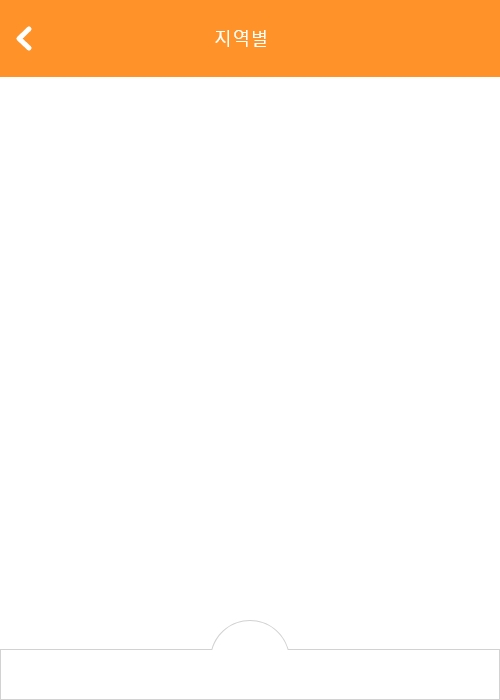
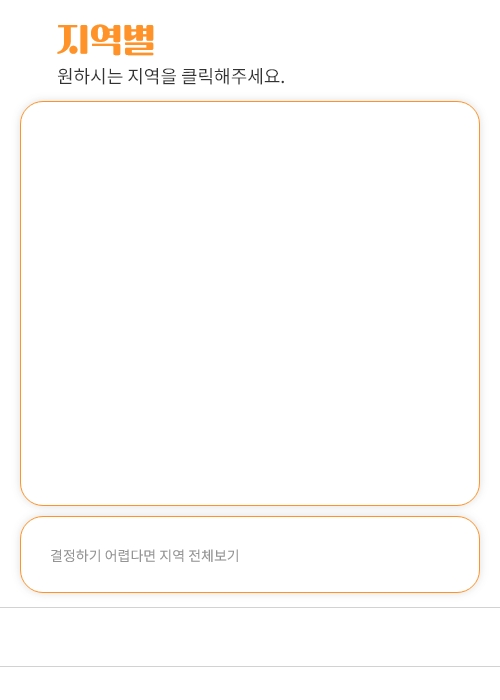
지역배경이미지 수정중

diff --git a/src/tabling/frame/LocationFrame.java b/src/tabling/frame/LocationFrame.java
@@ -1,5 +1,7 @@
 package tabling.frame;
 
+import java.awt.Graphics;
+import java.awt.Image;
 import java.awt.event.ActionEvent;
 import java.awt.event.ActionListener;
 import java.awt.event.MouseAdapter;
@@ -12,6 +14,7 @@ import javax.swing.ImageIcon;
 import javax.swing.JButton;
 import javax.swing.JFrame;
 import javax.swing.JLabel;
+import javax.swing.JPanel;
 
 import tabling.dao.RestaurantDAO;
 import tabling.dto.CustomerDTO;
@@ -20,13 +23,15 @@ import tabling.util.Define;
 
 public class LocationFrame extends JFrame implements ActionListener {
 
+	
+	private BackgroundPanel frame;
 	private JLabel background;
 
 	private JButton[] locationbutton;
 	private CustomerDTO customerDTO;
 	private RestaurantDAO dao;
 
-	private JLabel backBtn;
+//	private JLabel backBtn;
 
 	public LocationFrame(CustomerDTO customerDTO) {
 		this.customerDTO = customerDTO;
@@ -37,6 +42,8 @@ public class LocationFrame extends JFrame implements ActionListener {
 	}
 
 	private void initData() {
+		frame = new BackgroundPanel();
+		
 		dao = new RestaurantDAO();
 		locationbutton = new JButton[17]; // 0 ~ 17 배열
 		setTitle("지역 찾기");
@@ -50,11 +57,11 @@ public class LocationFrame extends JFrame implements ActionListener {
 		background.setSize(413, 355);
 		background.setLocation(35, 50);
 
-		Icon icon2 = new ImageIcon("img/quitBtn2.png");
-		backBtn = new JLabel(icon2);
+//		Icon icon2 = new ImageIcon("img/quitBtn2.png");
+//		backBtn = new JLabel(icon2);
 
-		backBtn.setSize(40, 40);
-		backBtn.setLocation(34, 40);
+//		backBtn.setSize(40, 40);
+//		backBtn.setLocation(34, 40);
 
 		locationbutton[Define.LOCATION_ALL] = new JButton("전체 검색"); // 지역구 모두 검색 (전체 검색)
 		locationbutton[Define.LOCATION_ALL].setBounds(190, 460, 120, 40); // 190, 460, 120, 40
@@ -159,16 +166,19 @@ public class LocationFrame extends JFrame implements ActionListener {
 
 	private void setInitLayout() {
 
-		setLayout(null);
-		add(background);
+		frame.setSize(getWidth(), getHeight());
+		frame.setLayout(null);
+//		setLayout(null);
 		setResizable(false);
-		add(backBtn);
-
+ 
 		for (int i = 1; i < 17; i++) {
 			background.add(locationbutton[i]);
 		}
-		add(locationbutton[Define.LOCATION_ALL]);
+		frame.add(locationbutton[Define.LOCATION_ALL]);
 
+//		frame.add(backBtn);
+		frame.add(background);
+		add(frame);
 		setVisible(true);
 	}
 
@@ -178,14 +188,14 @@ public class LocationFrame extends JFrame implements ActionListener {
 			locationbutton[i].addActionListener(this);
 		}
 
-		backBtn.addMouseListener(new MouseAdapter() {
-			@Override
-			public void mousePressed(MouseEvent e) {
-				new CustomerMainMenuFrame(customerDTO);
-				setVisible(false);
-				dispose();
-			}
-		});
+//		backBtn.addMouseListener(new MouseAdapter() {
+//			@Override
+//			public void mousePressed(MouseEvent e) {
+//				new CustomerMainMenuFrame(customerDTO);
+//				setVisible(false);
+//				dispose();
+//			}
+//		});
 
 	}
 
@@ -219,6 +229,25 @@ public class LocationFrame extends JFrame implements ActionListener {
 			}
 		}
 
+		
 	} // end of actionPerformed
+	
+	private class BackgroundPanel extends JPanel {
+		private JPanel backgroundPanel;
+		private Image backgroundImage;
+		
+		public BackgroundPanel() {
+			backgroundImage = new ImageIcon("img/locationFrameBg.jpg").getImage();
+			backgroundPanel = new JPanel();
+			add(backgroundPanel);
+		}
+		
+		@Override
+		protected void paintComponent(Graphics g) {
+			super.paintComponent(g);
+			g.drawImage(backgroundImage, 0, 0, getWidth(), getHeight(), null);
+		}
+		
+	}
 
 } // end of class

diff --git a/src/tabling/frame/RestaurantMainMenuFrame.java b/src/tabling/frame/RestaurantMainMenuFrame.java
@@ -58,7 +58,7 @@ public class RestaurantMainMenuFrame extends JFrame {
 	}
 
 	private void initData() {
-		 frame = this;
+		frame = this;
 		// 테이블에 담는 메소드
 		tableSet();
 		setList();
@@ -87,7 +87,7 @@ public class RestaurantMainMenuFrame extends JFrame {
 		backgroundPanel.add(resetBtn);
 		endReserBtn.setBounds(280, 590, 184, 44);
 		backgroundPanel.add(endReserBtn);
-		backBtn.setBounds(10,15,30,30);
+		backBtn.setBounds(10, 15, 30, 30);
 		backgroundPanel.add(backBtn);
 	}
 
@@ -99,25 +99,35 @@ public class RestaurantMainMenuFrame extends JFrame {
 			@Override
 			public void mousePressed(MouseEvent e) {
 				setList();
+				System.out.println("리셋함");
 			}
 		});
 		
+	
+
 		// TODO - 예약종료
 		endReserBtn.addMouseListener(new MouseAdapter() {
 			// row를 하나만 선택한 상태에서 update & select 해야 한다.
-			
-			@Override
-			public void mousePressed(MouseEvent e) {
-				if(table.getRowCount() == 1) {
-					
-				}
+
+//			@Override
+//			public void mousePressed(MouseEvent e) {
+//				if (table.getRowCount() == 1) {
+//					System.out.println("선택된 행 개수 : " + table.getRowCount());
+//				}
+//			}
+			public void mousePressed(java.awt.event.ActionEvent e) {
+				
+				int row = table.getSelectedRow();
+				if(row < 0) return;
+//				DefaultTableModel model = (DefaultTableModel) table.getModel();
+				
 			}
-			
+
 		});
 		
+
 	}
 
-	
 	public void tableSet() {
 
 		// 리스트 값
@@ -175,7 +185,7 @@ public class RestaurantMainMenuFrame extends JFrame {
 		table.getColumn("예약시간").setCellRenderer(centerAlign);
 		table.getColumn("예약상태").setPreferredWidth(90);
 		table.getColumn("예약상태").setCellRenderer(centerAlign);
-		
+
 		// 컬럼 이동 불가
 		table.getTableHeader().setReorderingAllowed(false);
 
@@ -210,5 +220,5 @@ public class RestaurantMainMenuFrame extends JFrame {
 		}
 
 	}
-	
+
 }
